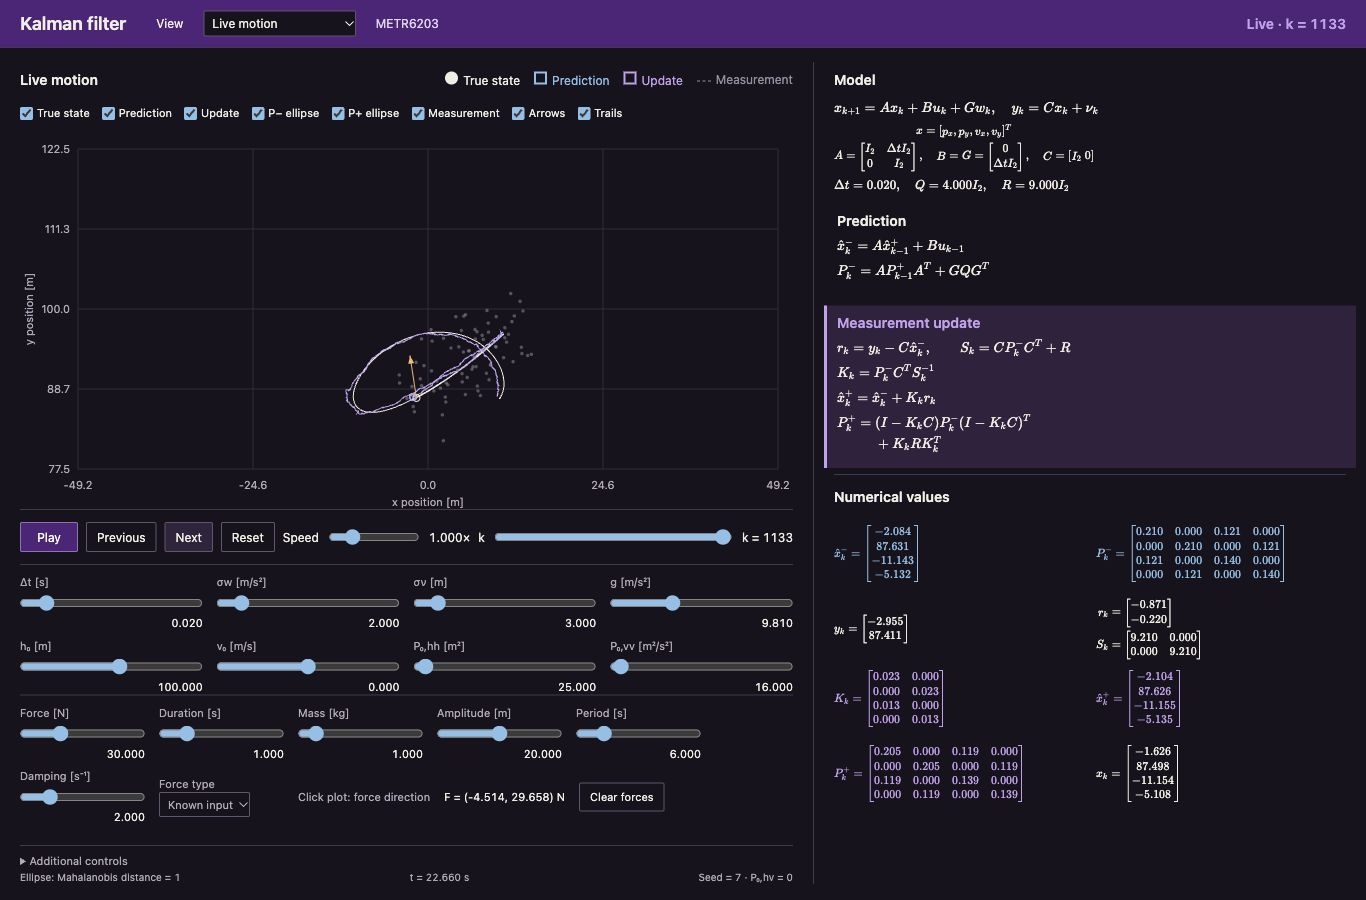
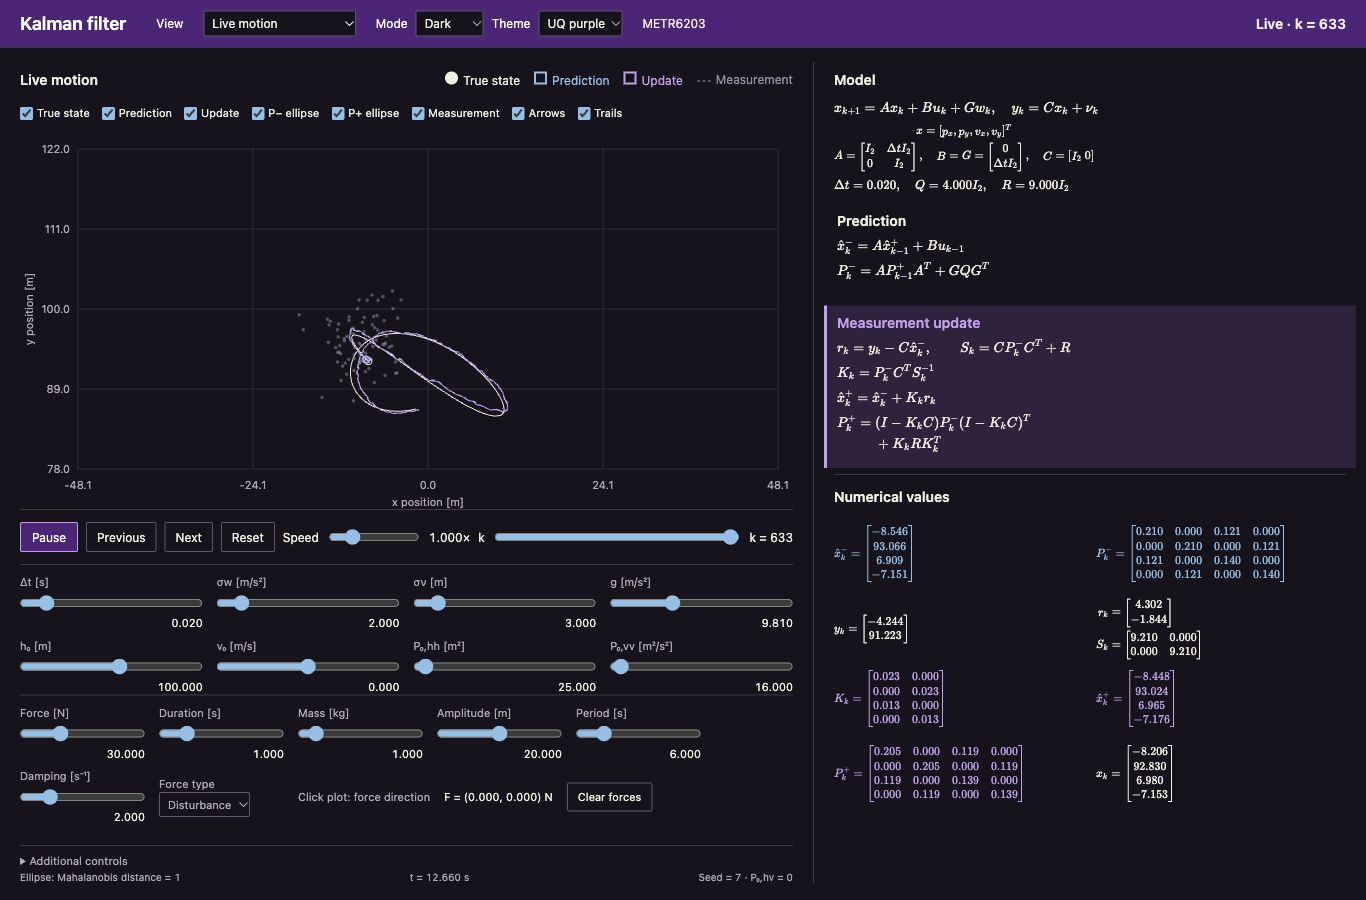
Add saved light and dark modes with colour themes

diff --git a/web/style.css b/web/style.css
@@ -9,6 +9,13 @@
   --post: #c7a0ef;
   --measurement: #9391a2;
   --truth: #f2eee5;
+  --grid: #332c3c;
+  --control-border: #63556f;
+  --hover: #30243d;
+  --prediction-bg: #202936;
+  --update-bg: #30213f;
+  --iir: #f9b86b;
+  --sma: #7bbfac;
 }
 * {
   box-sizing: border-box;
@@ -23,7 +30,7 @@ body {
 }
 header {
   height: 48px;
-  background: var(--uq-purple);
+  background: var(--accent, var(--uq-purple));
   padding: 0 20px;
   display: flex;
   gap: 20px;
@@ -126,7 +133,7 @@ input {
   font: inherit;
   color: inherit;
   background: var(--background);
-  border: 1px solid #63556f;
+  border: 1px solid var(--control-border);
   border-radius: 2px;
 }
 button {
@@ -134,7 +141,7 @@ button {
   cursor: pointer;
 }
 button:hover {
-  background: #30243d;
+  background: var(--hover);
 }
 button:disabled {
   opacity: 0.4;
@@ -148,8 +155,8 @@ select:focus-visible {
 }
 #play {
   min-width: 58px;
-  background: var(--uq-purple);
-  border-color: #9572b4;
+  background: var(--accent, var(--uq-purple));
+  border-color: var(--post);
   color: #fff;
 }
 select {
@@ -184,7 +191,7 @@ output {
   font-variant-numeric: tabular-nums;
 }
 input:invalid {
-  border-color: #c7a0ef;
+  border-color: var(--post);
 }
 .plot-meta {
   display: flex;
@@ -225,11 +232,11 @@ aside {
 }
 .equation-stage.active.prediction {
   border-left-color: var(--prior);
-  background: #202936;
+  background: var(--prediction-bg);
 }
 .equation-stage.active.update {
   border-left-color: var(--post);
-  background: #30213f;
+  background: var(--update-bg);
 }
 .equation-stage.active.prediction h2 {
   color: var(--prior);
@@ -419,7 +426,7 @@ summary {
   }
 }
 .value-grid > div.pending {
-  color: #8f859a;
+  color: var(--muted);
 }
 .equation-stage.absent {
   opacity: 0.45;
@@ -497,4 +504,53 @@ body.live #model-matrices {
 }
 body.live .algorithm {
   font-size: 13px;
+}
+
+:root[data-mode="light"] {
+  color-scheme: light;
+  --background: #faf8fc;
+  --ink: #261d30;
+  --muted: #61596a;
+  --line: #d5cedd;
+  --grid: #e4dfe9;
+  --control-border: #a89caf;
+  --hover: #ece5f3;
+  --prior: #17649b;
+  --post: #693395;
+  --measurement: #77717f;
+  --truth: #261d30;
+  --prediction-bg: #e6eff7;
+  --update-bg: #eee4f7;
+  --iir: #a64d00;
+  --sma: #207154;
+}
+:root[data-theme="ocean"] {
+  --accent: #075768;
+  --post: #74d5c3;
+  --update-bg: #143831;
+}
+:root[data-theme="ocean"][data-mode="light"] {
+  --post: #087665;
+  --update-bg: #dff3ed;
+  --hover: #e0efef;
+}
+:root[data-theme="amber"] {
+  --accent: #70420b;
+  --post: #efc070;
+  --iir: #e4a0c3;
+  --update-bg: #372c1b;
+}
+:root[data-theme="amber"][data-mode="light"] {
+  --post: #89500b;
+  --iir: #a43872;
+  --update-bg: #f7ecd9;
+  --hover: #f3eadb;
+}
+header { color: #fff; }
+header select { color: var(--ink); }
+header > span, #status { color: #f2eee5 !important; }
+.appearance { display: flex; align-items: center; gap: 8px; }
+.appearance label { margin-left: 0; }
+@media (max-width: 1050px) {
+  header { height: auto; min-height: 48px; flex-wrap: wrap; gap: 8px 12px; padding-top: 8px; padding-bottom: 8px; }
 }

diff --git a/web/app.js b/web/app.js
@@ -8,6 +8,10 @@ const palette = {
   measurement: "#9391a2",
   iir: "#f9b86b",
   sma: "#7bbfac",
+  grid: "#332c3c",
+  muted: "#b4aabb",
+  border: "#63556f",
+  background: "#17131d",
 };
 const visible = {
   truth: true,
@@ -165,7 +169,7 @@ function plot() {
     const hh = bounds.hmin + ((bounds.hmax - bounds.hmin) * i) / 5,
       vv = bounds.vmin + ((bounds.vmax - bounds.vmin) * i) / 5;
     const [vx, hy] = pos([hh, vv]);
-    ctx.strokeStyle = "#332c3c";
+    ctx.strokeStyle = palette.grid;
     ctx.lineWidth = 1;
     ctx.beginPath();
     ctx.moveTo(left, hy);
@@ -173,13 +177,13 @@ function plot() {
     ctx.moveTo(vx, top);
     ctx.lineTo(vx, h - bottom);
     ctx.stroke();
-    ctx.fillStyle = "#b4aabb";
+    ctx.fillStyle = palette.muted;
     ctx.textAlign = "right";
     ctx.fillText(hh.toFixed(1), left - 9, hy);
     ctx.textAlign = "center";
     ctx.fillText(vv.toFixed(1), vx, h - bottom + 17);
   }
-  ctx.strokeStyle = "#63556f";
+  ctx.strokeStyle = palette.border;
   ctx.strokeRect(left, top, pw, ph);
   ctx.fillStyle = palette.truth;
   ctx.textAlign = "center";
@@ -210,7 +214,7 @@ function plot() {
   }
   function marker(x, color, shape) {
     const [a, b] = pos(x);
-    ctx.fillStyle = "#17131d";
+    ctx.fillStyle = palette.background;
     ctx.strokeStyle = color;
     ctx.lineWidth = 2;
     ctx.beginPath();

diff --git a/web/theme.js b/web/theme.js
@@ -1,0 +1,28 @@
+"use strict";
+(() => {
+  const mode = $("color-mode"), theme = $("color-theme");
+  const system = window.matchMedia("(prefers-color-scheme: dark)");
+  try {
+    const saved = JSON.parse(localStorage.getItem("kalman-appearance"));
+    if (["dark", "light", "system"].includes(saved?.mode)) mode.value = saved.mode;
+    if (["uq", "ocean", "amber"].includes(saved?.theme)) theme.value = saved.theme;
+  } catch { /* Storage may be unavailable for local files. */ }
+  function apply() {
+    document.documentElement.dataset.mode = mode.value === "system"
+      ? (system.matches ? "dark" : "light") : mode.value;
+    document.documentElement.dataset.theme = theme.value;
+    const css = getComputedStyle(document.documentElement);
+    const tokens = { posterior: "post", border: "control-border" };
+    for (const key of Object.keys(palette)) {
+      palette[key] = css.getPropertyValue("--" + (tokens[key] || key)).trim();
+    }
+    try {
+      localStorage.setItem("kalman-appearance", JSON.stringify({ mode: mode.value, theme: theme.value }));
+    } catch { /* Appearance still works without persistence. */ }
+    draw();
+  }
+  mode.addEventListener("change", apply);
+  theme.addEventListener("change", apply);
+  system.addEventListener("change", () => { if (mode.value === "system") apply(); });
+  apply();
+})();

diff --git a/web/index.html b/web/index.html
@@ -15,6 +15,14 @@
         <option value="live" selected>Live motion</option>
         <option value="staged">State space · 25 steps</option>
       </select>
+      <div class="appearance" aria-label="Appearance">
+        <label for="color-mode">Mode</label><select id="color-mode">
+          <option value="dark">Dark</option><option value="light">Light</option><option value="system">System</option>
+        </select>
+        <label for="color-theme">Theme</label><select id="color-theme">
+          <option value="uq">UQ purple</option><option value="ocean">Ocean</option><option value="amber">Amber</option>
+        </select>
+      </div>
       <span>METR6203</span
       ><span id="status" aria-live="polite">k = 1 · Prediction</span>
     </header>
@@ -302,5 +310,6 @@
     <script src="live-model.js"></script>
     <script src="app.js"></script>
     <script src="live.js"></script>
+    <script src="theme.js"></script>
   </body>
 </html>

diff --git a/web/live.js b/web/live.js
@@ -120,9 +120,9 @@ function liveDraw() {
       top + ((b.ymax - x[1]) / (b.ymax - b.ymin)) * b.ph,
     ];
   ctx.font = "11px system-ui";
-  ctx.strokeStyle = "#332c3c";
+  ctx.strokeStyle = palette.grid;
   ctx.lineWidth = 1;
-  ctx.fillStyle = "#b4aabb";
+  ctx.fillStyle = palette.muted;
   for (let i = 0; i <= 4; i++) {
     const x = left + (b.pw * i) / 4,
       y = top + (b.ph * i) / 4;

diff --git a/README.md b/README.md
@@ -27,7 +27,7 @@ The state is `[h, v]`: height in metres and vertical velocity in metres per seco
 
 The browser stores 25 iterations from seed 7. Each has a prediction and measurement-update stage. Play/Pause, Previous, Next, Reset, speed, and iteration selection operate on those stored results. Next completes the current stage, then advances one stage per click. Previous returns to the previous stage endpoint; from the first prediction it returns to the initial estimate. The slider selects an iteration's completed update. Space toggles playback; left/right arrows step when a form control does not have focus.
 
-Visibility controls independently hide the true state, predicted estimate, updated estimate, either covariance ellipse, measurements, arrows, or trails. Blue denotes prediction and lavender denotes update. The interface uses a dark background with UQ purple accents. Equations and numerical matrices follow the active stage. During animation, active values and covariance interpolate between the stored endpoints; a percentage identifies the transition. At stage endpoints, values match the stored algorithm results exactly. Pending update values are blank until the update stage.
+Visibility controls independently hide the true state, predicted estimate, updated estimate, either covariance ellipse, measurements, arrows, or trails. Blue denotes prediction and lavender denotes update. The interface defaults to dark mode with UQ purple accents. Mode offers Dark, Light, or System; Theme offers UQ purple, Ocean, or Amber. Appearance is saved in this browser and applies to the plot, equations, and controls without restarting playback. Equations and numerical matrices follow the active stage. During animation, active values and covariance interpolate between the stored endpoints; a percentage identifies the transition. At stage endpoints, values match the stored algorithm results exactly. Pending update values are blank until the update stage.
 
 The implemented model is forward Euler:
 
